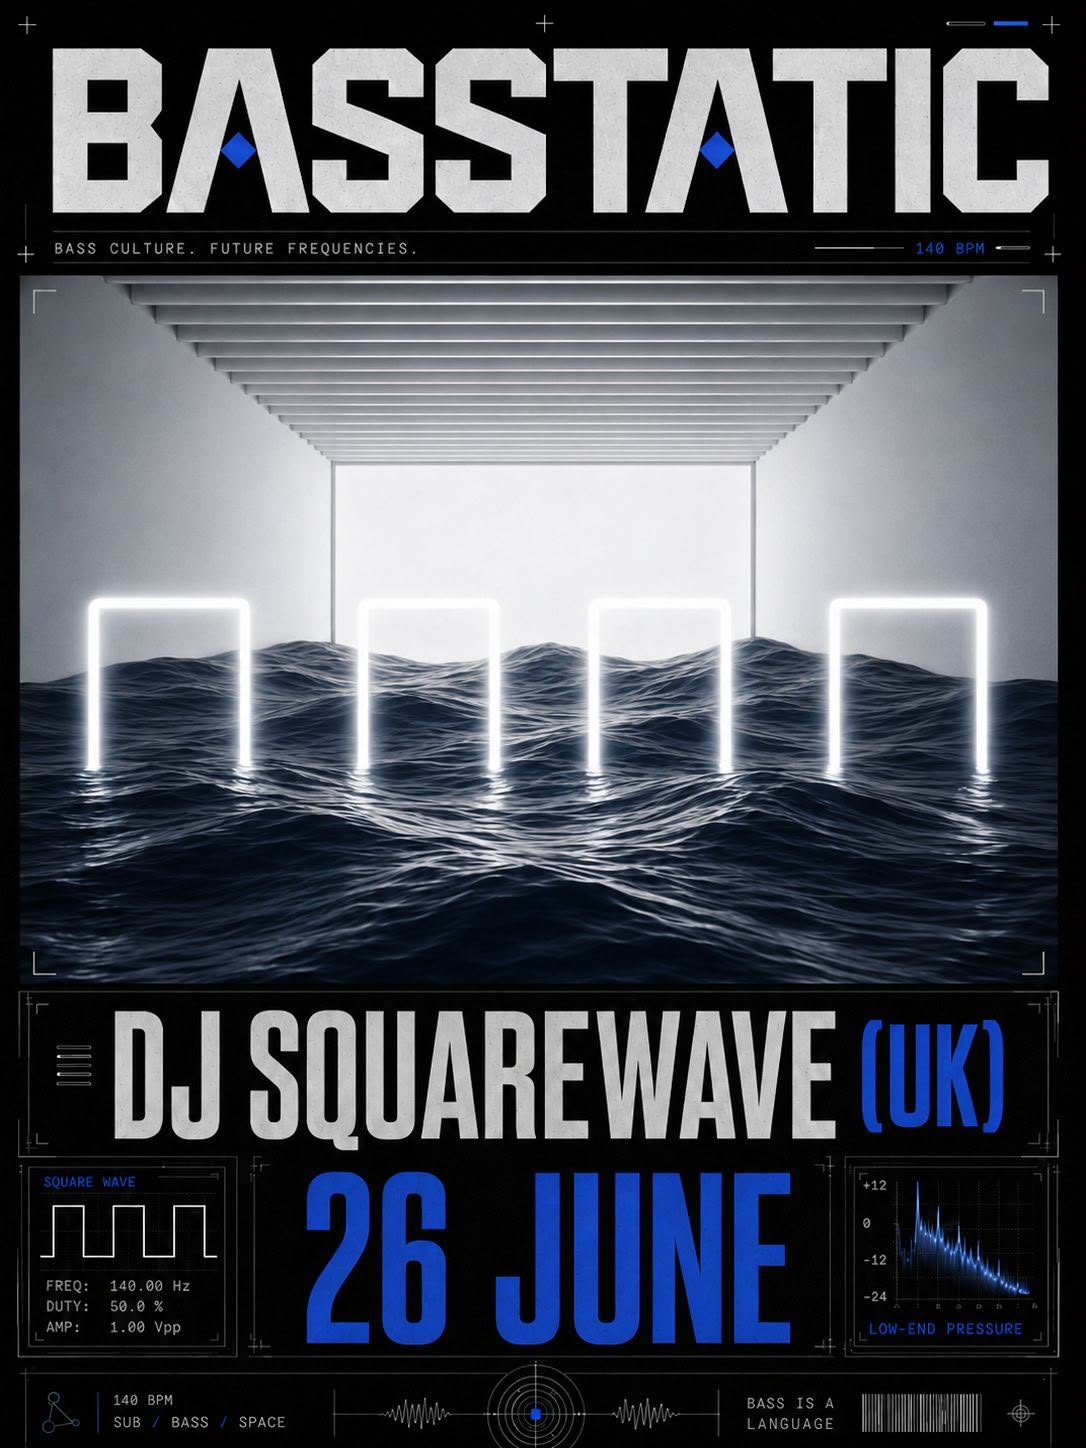
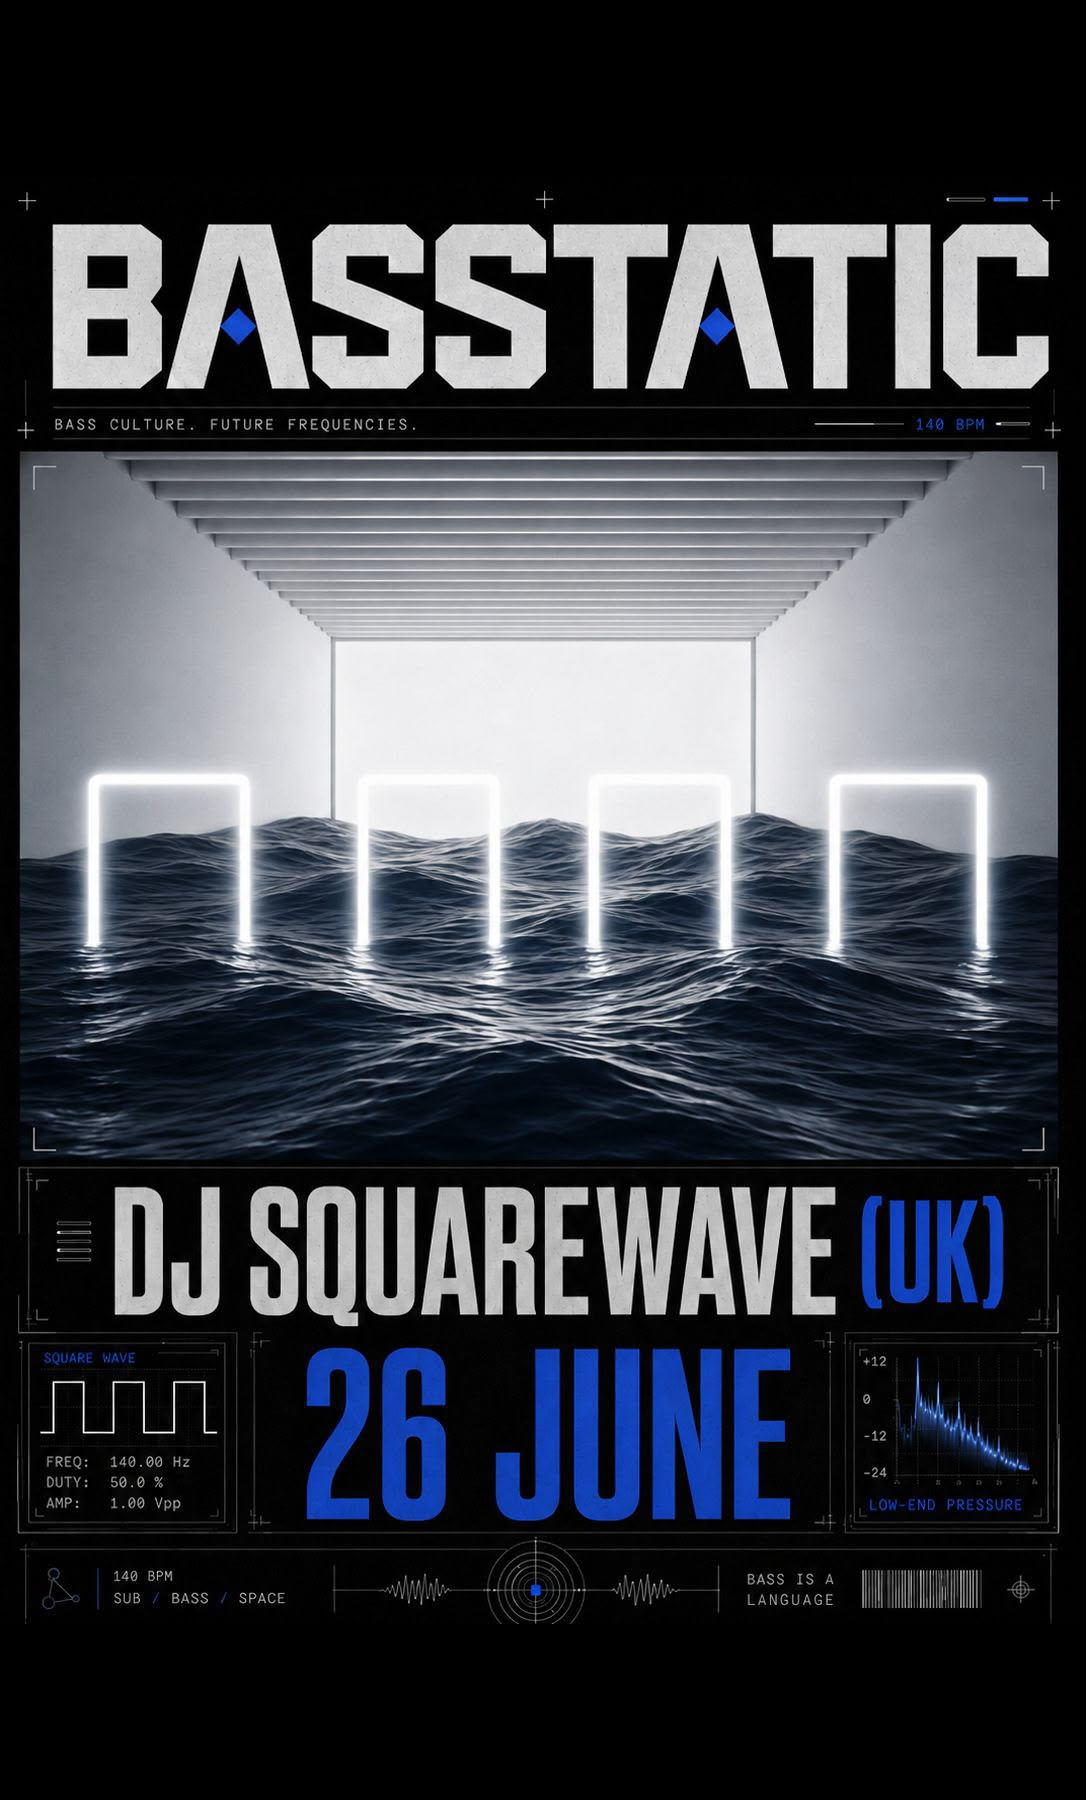
Update Squarewave poster

diff --git a/index.html b/index.html
@@ -16,7 +16,7 @@
   <meta property="og:description" content="Squarewave (UK / New World Audio) live at Ash, Nuanu — deep dubstep, heavyweight frequencies and unreleased dubplates. 26 June 2026, doors 6 PM. Powered by the Basstatic Soundsystem.">
   <meta property="og:image" content="https://basstatic.net/media/events/6/poster.jpeg">
   <meta property="og:image:width" content="1086">
-  <meta property="og:image:height" content="1448">
+  <meta property="og:image:height" content="1800">
   <meta property="og:image:alt" content="Basstatic x Squarewave poster — 26 June 2026, Bali">
   <meta property="og:url" content="https://basstatic.net">
   <meta property="og:site_name" content="BASSTATIC">